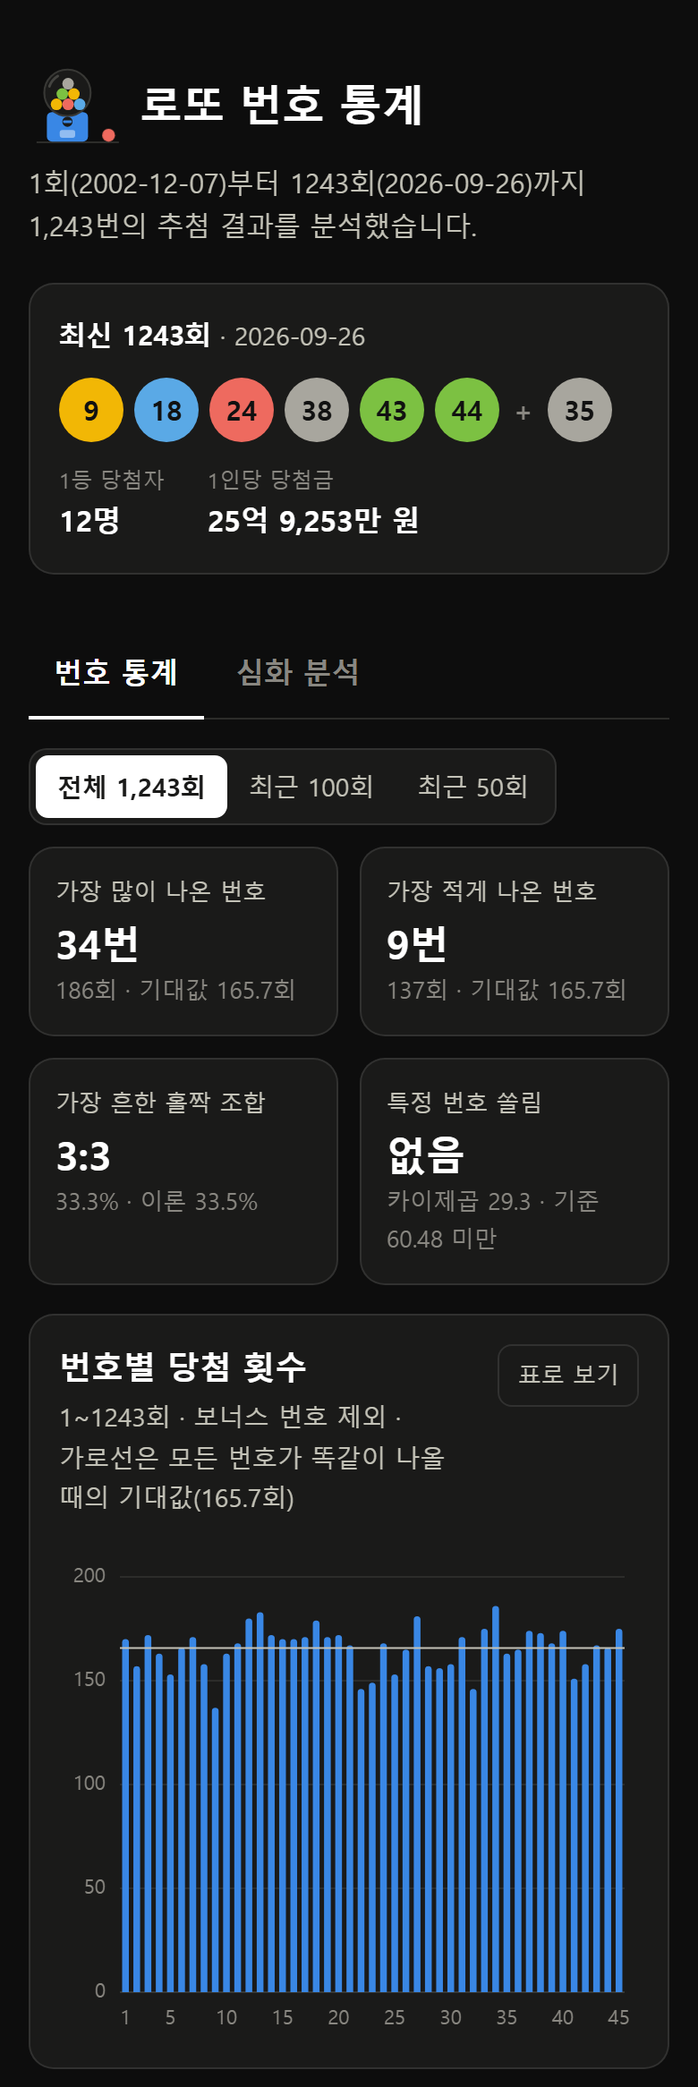
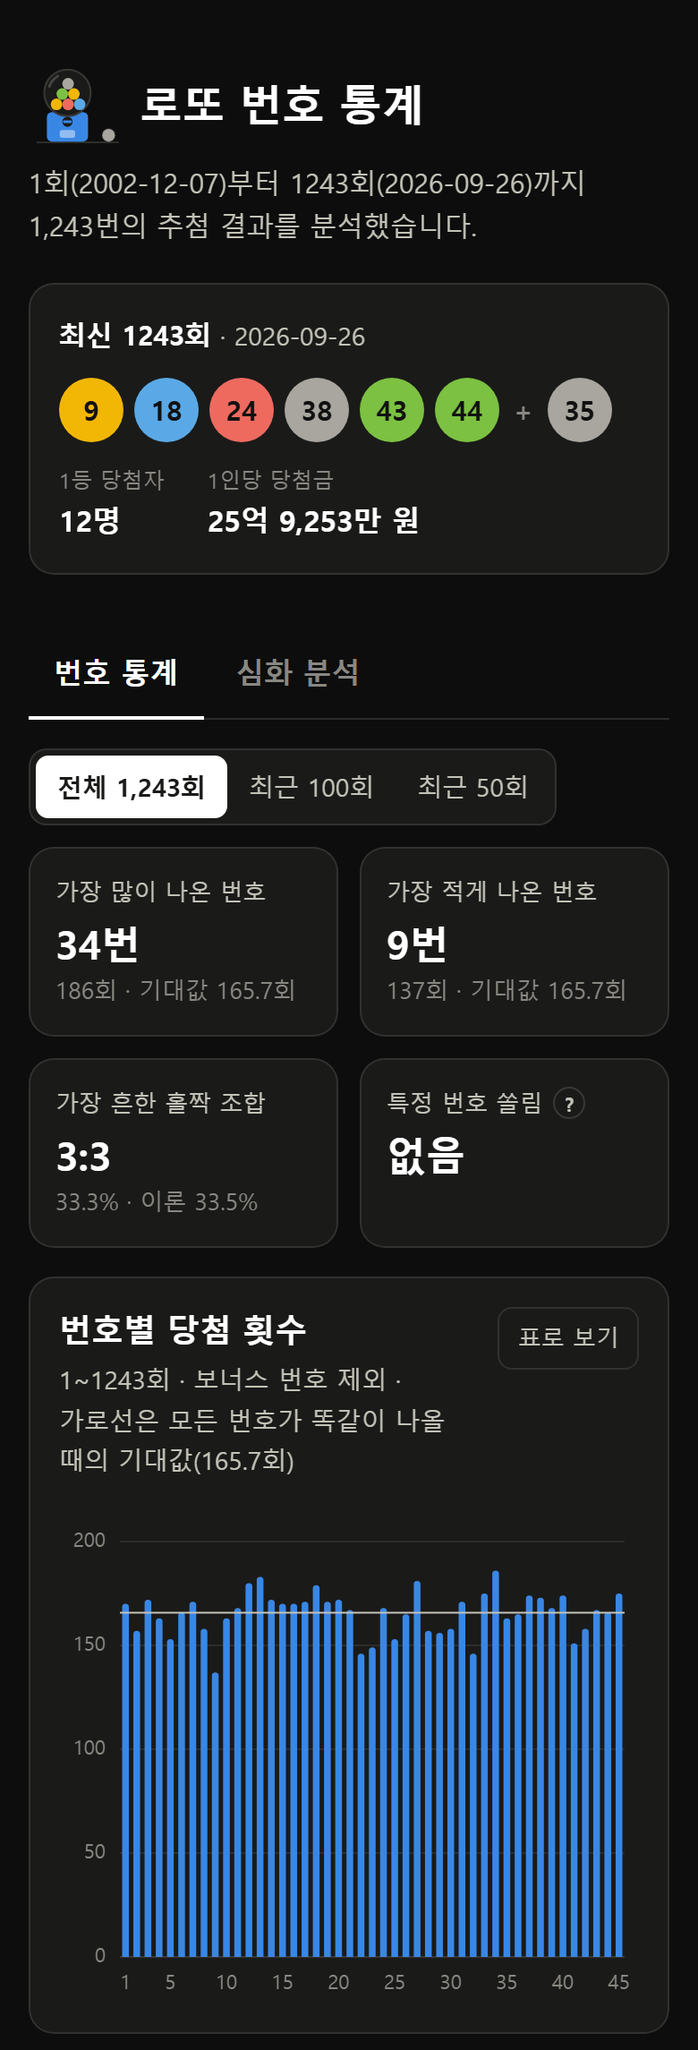
'특정 번호 쏠림' 타일에 ? 도움말 추가
- 타일에는 '없음/있음'만 남기고, 제목 옆 ? 버튼에 카이제곱 값과 기준, 뜻과 계산 방법을 풀어 쓴 설명을 띄움
- 마우스를 올리거나 키보드로 포커스하면 보이고, 누르면 고정. 모바일은 탭으로 열고 바깥을 탭하면 닫힘, Esc로도 닫힘
- 설명은 선택한 기간(전체·최근 100회·최근 50회)의 기대값과 카이제곱 값에 맞춰 바뀜
- README 스크린샷 갱신

diff --git a/docs/index.html b/docs/index.html
@@ -183,7 +183,26 @@
   /* 요약 타일 */
   .tiles { display: grid; grid-template-columns: repeat(4, minmax(0, 1fr)); gap: 12px; margin-bottom: 16px; }
   .tile { background: var(--surface); border: 1px solid var(--border); border-radius: 14px; padding: 16px; }
-  .tile-label { font-size: 13px; color: var(--ink-2); }
+  .tile-label { display: flex; align-items: center; gap: 6px; font-size: 13px; color: var(--ink-2); }
+
+  /* 도움말 ? 버튼과 설명 상자 */
+  .help {
+    flex: none; width: 18px; height: 18px; padding: 0; border-radius: 50%;
+    border: 1px solid var(--baseline); background: transparent; color: var(--ink-2);
+    font: inherit; font-size: 11px; font-weight: 700; line-height: 1; cursor: help;
+    display: inline-grid; place-items: center;
+  }
+  .help:hover, .help[aria-expanded="true"] { background: var(--ink); border-color: var(--ink); color: var(--surface); }
+  .help:focus-visible { outline: 2px solid var(--series-1); outline-offset: 2px; }
+  .help-pop {
+    position: fixed; z-index: 10; width: min(320px, calc(100vw - 32px));
+    background: var(--surface); border: 1px solid var(--border); border-radius: 10px; box-shadow: var(--shadow);
+    padding: 12px 14px; font-size: 13px; line-height: 1.6; color: var(--ink-2);
+  }
+  .help-pop strong { display: block; margin-bottom: 6px; font-size: 14px; color: var(--ink); }
+  .help-pop p { margin: 0 0 6px; }
+  .help-pop p:last-child { margin-bottom: 0; }
+  .help-pop .muted { font-size: 12px; color: var(--muted); }
   .tile-value { font-size: 26px; font-weight: 650; line-height: 1.3; margin-top: 4px; }
   .tile-sub { font-size: 13px; color: var(--muted); margin-top: 2px; }
 
@@ -491,6 +510,7 @@
 </main>
 
 <div class="tip" id="tip" role="tooltip" hidden></div>
+<div class="help-pop" id="help-pop" role="tooltip" hidden></div>
 
 <script id="data" type="application/json">{"first": {"no": 1, "date": "2002-12-07"}, "last": {"no": 1243, "date": "2026-09-26", "numbers": [9, 18, 24, 38, 43, 44], "bonus": 35, "firstWinners": 12, "firstPrize": 2592525282}, "chi2Critical": 60.48, "oddEvenTheory": [0.009161, 0.074362, 0.227217, 0.334846, 0.251134, 0.090887, 0.012394], "sumTheory": [0.003532, 0.023122, 0.081617, 0.175807, 0.248332, 0.236471, 0.15126, 0.062639, 0.015363, 0.001856], "rangeTheory": [0.222222, 0.222222, 0.222222, 0.222222, 0.111111], "gap": [9, 1, 13, 1, 30, 8, 2, 13, 0, 1, 3, 7, 2, 12, 8, 1, 17, 0, 3, 3, 7, 4, 2, 0, 10, 17, 19, 13, 7, 15, 1, 4, 4, 6, 9, 4, 6, 0, 8, 6, 1, 5, 0, 0, 19], "windows": {"all": {"draws": 1243, "freq": [170, 157, 172, 163, 153, 166, 171, 158, 137, 163, 168, 180, 183, 172, 170, 170, 171, 179, 171, 172, 167, 146, 149, 168, 153, 165, 181, 157, 156, 158, 171, 146, 175, 186, 163, 165, 174, 173, 168, 174, 151, 158, 167, 166, 175], "oddEven": [0.013677, 0.066774, 0.226066, 0.333065, 0.265487, 0.079646, 0.015286], "chi2": 29.3, "sumDist": [0.004023, 0.025744, 0.087691, 0.164119, 0.254224, 0.214803, 0.164119, 0.065165, 0.017699, 0.002414], "sumMean": 138.3, "rangeShare": [0.215876, 0.23277, 0.214535, 0.227273, 0.109547]}, "100": {"draws": 100, "freq": [12, 12, 17, 12, 9, 14, 15, 14, 16, 10, 13, 13, 18, 7, 18, 17, 11, 14, 14, 13, 10, 11, 13, 16, 13, 12, 20, 15, 13, 12, 17, 13, 11, 10, 13, 13, 16, 18, 15, 12, 11, 13, 10, 13, 11], "oddEven": [0.02, 0.07, 0.23, 0.21, 0.36, 0.1, 0.01], "chi2": 24.3, "sumDist": [0.01, 0.02, 0.1, 0.13, 0.24, 0.33, 0.11, 0.03, 0.03, 0.0], "sumMean": 137.4, "rangeShare": [0.218333, 0.23, 0.225, 0.23, 0.096667]}, "50": {"draws": 50, "freq": [8, 7, 7, 6, 4, 5, 6, 6, 6, 6, 5, 5, 10, 3, 11, 8, 5, 8, 6, 7, 4, 6, 5, 9, 6, 5, 10, 8, 6, 7, 11, 7, 7, 6, 6, 7, 6, 10, 6, 5, 7, 7, 6, 8, 6], "oddEven": [0.0, 0.1, 0.26, 0.22, 0.32, 0.08, 0.02], "chi2": 21.0, "sumDist": [0.0, 0.02, 0.06, 0.14, 0.24, 0.34, 0.12, 0.06, 0.02, 0.0], "sumMean": 141.0, "rangeShare": [0.203333, 0.226667, 0.22, 0.236667, 0.113333]}}, "yearly": [{"year": 2002, "draws": 4, "winners": 0.5, "prize": 2001003400, "sales": 4646715500}, {"year": 2003, "draws": 52, "winners": 4.02, "prize": 7296607950, "sales": 73136611576}, {"year": 2004, "draws": 52, "winners": 4.85, "prize": 4449644243, "sales": 63082585134}, {"year": 2005, "draws": 53, "winners": 6.43, "prize": 2337672556, "sales": 51924867188}, {"year": 2006, "draws": 52, "winners": 5.81, "prize": 2477798749, "sales": 47529296634}, {"year": 2007, "draws": 52, "winners": 5.81, "prize": 2398778454, "sales": 43550423250}, {"year": 2008, "draws": 52, "winners": 5.48, "prize": 2628893655, "sales": 43615730826}, {"year": 2009, "draws": 52, "winners": 5.67, "prize": 2411724960, "sales": 45181136769}, {"year": 2010, "draws": 52, "winners": 5.6, "prize": 2932931827, "sales": 46551576519}, {"year": 2011, "draws": 53, "winners": 6.91, "prize": 2300512047, "sales": 53056016584}, {"year": 2012, "draws": 52, "winners": 6.65, "prize": 2490390423, "sales": 54483828769}, {"year": 2013, "draws": 52, "winners": 7.75, "prize": 2660993899, "sales": 57343982115}, {"year": 2014, "draws": 52, "winners": 7.52, "prize": 2290456497, "sales": 58482017750}, {"year": 2015, "draws": 52, "winners": 7.56, "prize": 2325697848, "sales": 62419556769}, {"year": 2016, "draws": 53, "winners": 8.64, "prize": 2214066163, "sales": 67916671150}, {"year": 2017, "draws": 52, "winners": 9.19, "prize": 2354143504, "sales": 72976702076}, {"year": 2018, "draws": 52, "winners": 9.31, "prize": 2328038408, "sales": 76165627442}, {"year": 2019, "draws": 52, "winners": 9.75, "prize": 2396548868, "sales": 82849318865}, {"year": 2020, "draws": 52, "winners": 10.1, "prize": 2461556915, "sales": 90558172692}, {"year": 2021, "draws": 52, "winners": 10.85, "prize": 2455187227, "sales": 98361471576}, {"year": 2022, "draws": 53, "winners": 12.6, "prize": 2554471515, "sales": 104105883018}, {"year": 2023, "draws": 52, "winners": 12.42, "prize": 2368756091, "sales": 108626514942}, {"year": 2024, "draws": 52, "winners": 14.67, "prize": 2100664332, "sales": 114020230480}, {"year": 2025, "draws": 52, "winners": 15.62, "prize": 2061324936, "sales": 119233559461}, {"year": 2026, "draws": 39, "winners": 15.03, "prize": 2185946342, "sales": 121877756000}], "records": {"topPrize": {"no": 19, "date": "2003-04-12", "winners": 1, "prize": 40722959400, "sales": 105957818000}, "lowPrize": {"no": 546, "date": "2013-05-18", "winners": 30, "prize": 405939950, "sales": 56713166000}, "mostWinners": {"no": 1128, "date": "2024-07-13", "winners": 63, "prize": 419925560, "sales": 111364194000}, "topSales": {"no": 10, "date": "2003-02-08", "winners": 13, "prize": 6430437900, "sales": 260856392000}, "noWinner": {"count": 14, "last": {"no": 463, "date": "2011-10-15", "winners": 0, "prize": 0, "sales": 49205151000}}, "drought": {"number": 5, "length": 73, "from": 1053, "to": 1125}}, "pairs": [24, 27, 21, 18, 16, 14, 21, 21, 21, 18, 25, 22, 17, 18, 23, 22, 20, 16, 22, 19, 9, 20, 20, 13, 21, 22, 30, 22, 12, 13, 14, 14, 24, 23, 16, 19, 18, 17, 20, 21, 24, 18, 15, 20, 16, 20, 15, 20, 15, 22, 12, 13, 22, 18, 18, 15, 23, 23, 22, 14, 22, 21, 13, 18, 11, 17, 24, 16, 20, 22, 16, 16, 18, 16, 23, 22, 11, 13, 19, 14, 19, 14, 15, 18, 17, 18, 20, 22, 12, 17, 21, 20, 17, 22, 21, 25, 29, 21, 21, 18, 18, 16, 16, 29, 12, 25, 19, 29, 9, 14, 28, 13, 14, 18, 19, 23, 20, 20, 18, 19, 21, 20, 17, 16, 17, 23, 19, 18, 21, 18, 15, 13, 19, 18, 23, 19, 19, 17, 18, 18, 23, 22, 20, 18, 26, 11, 16, 19, 15, 19, 25, 22, 18, 18, 9, 19, 20, 26, 19, 14, 12, 22, 16, 15, 24, 19, 17, 18, 12, 21, 20, 16, 13, 16, 11, 26, 24, 24, 24, 13, 15, 18, 20, 13, 26, 19, 18, 14, 13, 18, 21, 24, 14, 17, 17, 16, 16, 12, 26, 15, 12, 17, 12, 20, 12, 14, 19, 20, 17, 20, 24, 12, 12, 18, 25, 22, 24, 22, 18, 22, 25, 24, 23, 16, 23, 22, 10, 18, 14, 16, 16, 28, 10, 19, 19, 20, 9, 19, 17, 17, 25, 31, 22, 23, 18, 14, 18, 15, 12, 15, 22, 15, 20, 24, 20, 12, 24, 22, 18, 27, 26, 24, 13, 23, 18, 27, 17, 21, 20, 16, 23, 15, 14, 10, 25, 18, 18, 24, 21, 25, 20, 23, 18, 20, 18, 18, 18, 11, 13, 14, 7, 23, 17, 18, 15, 24, 23, 23, 14, 23, 13, 15, 14, 18, 8, 27, 17, 20, 19, 23, 16, 22, 17, 18, 22, 16, 20, 27, 14, 15, 18, 20, 20, 24, 16, 15, 22, 14, 13, 14, 14, 17, 18, 14, 10, 16, 12, 14, 18, 16, 15, 18, 19, 16, 15, 12, 11, 21, 15, 18, 15, 17, 19, 16, 15, 15, 14, 15, 14, 13, 17, 16, 19, 22, 20, 27, 13, 22, 23, 20, 12, 24, 16, 20, 15, 11, 19, 18, 19, 13, 31, 18, 20, 18, 22, 20, 22, 23, 14, 26, 18, 16, 15, 22, 12, 19, 22, 21, 21, 20, 26, 20, 16, 16, 34, 15, 13, 19, 14, 24, 19, 21, 17, 15, 19, 20, 17, 10, 19, 20, 22, 17, 26, 9, 18, 13, 16, 27, 18, 21, 20, 28, 14, 15, 20, 23, 22, 19, 14, 17, 31, 16, 25, 17, 16, 24, 17, 18, 21, 25, 29, 15, 17, 16, 21, 23, 24, 22, 27, 23, 17, 22, 21, 20, 17, 18, 27, 19, 24, 20, 16, 15, 20, 20, 20, 16, 26, 23, 13, 22, 24, 29, 22, 16, 21, 25, 24, 23, 20, 18, 19, 22, 18, 24, 29, 18, 16, 23, 17, 18, 22, 22, 19, 14, 18, 24, 23, 16, 14, 23, 22, 20, 21, 18, 20, 22, 22, 21, 23, 24, 14, 17, 17, 19, 21, 16, 18, 12, 26, 19, 24, 22, 23, 23, 21, 19, 18, 18, 15, 16, 14, 12, 17, 29, 17, 18, 20, 13, 17, 19, 18, 19, 24, 18, 20, 18, 17, 24, 20, 17, 10, 23, 25, 23, 18, 18, 20, 20, 15, 24, 13, 19, 18, 16, 24, 19, 21, 18, 21, 25, 17, 22, 21, 17, 24, 21, 22, 19, 15, 17, 18, 16, 19, 24, 20, 18, 21, 22, 17, 19, 21, 21, 24, 18, 16, 23, 17, 13, 15, 19, 21, 25, 16, 21, 25, 14, 24, 20, 13, 23, 19, 16, 19, 23, 28, 25, 15, 26, 18, 14, 19, 26, 24, 17, 12, 23, 21, 20, 27, 18, 29, 16, 20, 20, 23, 19, 20, 21, 10, 16, 18, 18, 17, 25, 17, 16, 13, 16, 17, 18, 20, 23, 24, 18, 27, 14, 14, 21, 22, 18, 20, 18, 18, 15, 19, 19, 17, 26, 18, 26, 20, 18, 15, 16, 20, 20, 17, 18, 26, 17, 17, 12, 14, 23, 23, 22, 11, 17, 20, 17, 20, 19, 28, 22, 23, 21, 17, 19, 15, 18, 13, 18, 23, 19, 12, 18, 17, 16, 15, 19, 12, 13, 19, 17, 15, 22, 15, 21, 23, 21, 13, 17, 12, 17, 13, 17, 11, 18, 18, 15, 16, 17, 18, 14, 16, 11, 11, 21, 21, 17, 16, 18, 18, 19, 9, 17, 22, 21, 20, 13, 13, 29, 10, 17, 22, 15, 19, 21, 19, 21, 19, 19, 19, 18, 21, 16, 18, 10, 26, 22, 15, 18, 18, 21, 11, 18, 14, 22, 19, 17, 27, 22, 18, 15, 18, 12, 12, 18, 17, 17, 26, 19, 19, 18, 21, 8, 19, 20, 20, 23, 19, 20, 16, 22, 17, 20, 24, 18, 15, 19, 23, 18, 17, 13, 17, 16, 27, 24, 23, 26, 20, 26, 16, 21, 21, 19, 25, 13, 23, 12, 12, 11, 23, 11, 18, 16, 17, 17, 20, 16, 22, 21, 14, 19, 11, 19, 13, 25, 24, 17, 14, 16, 23, 18, 22, 11, 17, 18, 24, 18, 23, 14, 24, 28, 22, 16, 20, 23, 23, 15, 23, 15, 23, 17, 23, 24, 19, 27, 17, 17, 21, 25, 15, 25, 18, 14, 23, 26, 17, 23, 18, 12, 18, 16, 15, 14, 19, 14, 19, 12, 13, 21, 18, 22, 23, 24, 21, 16, 33, 19, 19, 14, 22, 21, 20, 18, 16, 19, 20, 20, 21, 30, 19, 27, 23, 19, 24, 18, 20, 23, 11, 14, 25, 19, 19, 20, 17, 25, 15, 17, 16, 13, 18, 21, 24, 20, 31, 19, 15, 21, 10, 23, 21, 23, 15, 16, 19, 19, 23, 16, 22, 12, 22, 20, 23, 22, 15, 21, 19, 17, 17, 18, 20, 22, 19, 15, 24, 18, 19, 14]}</script>
 <script>
@@ -829,22 +849,94 @@
     const k = w.oddEven.indexOf(Math.max(...w.oddEven));
     const random = w.chi2 < DATA.chi2Critical;
 
+    // [제목, 값, 보조 문구, 도움말] — 도움말이 있으면 제목 옆에 ? 버튼을 단다
     const tiles = [
       ['가장 많이 나온 번호', listOf(numbersWith(max)), `${fmt(max)}회 · 기대값 ${expected}회`],
       ['가장 적게 나온 번호', listOf(numbersWith(min)), `${fmt(min)}회 · 기대값 ${expected}회`],
       ['가장 흔한 홀짝 조합', `${k}:${6 - k}`, `${pct(w.oddEven[k])} · 이론 ${pct(DATA.oddEvenTheory[k])}`],
-      ['특정 번호 쏠림', random ? '없음' : '있음',
-        `카이제곱 ${w.chi2.toFixed(1)} · 기준 ${DATA.chi2Critical} ${random ? '미만' : '이상'}`],
+      ['특정 번호 쏠림', random ? '없음' : '있음', null, chiSquareHelp(w)],
     ];
     const box = $('tiles');
     box.textContent = '';
-    for (const [label, value, sub] of tiles) {
+    for (const [label, value, sub, help] of tiles) {
       const tile = htmlEl('div', 'tile', null, box);
-      htmlEl('div', 'tile-label', label, tile);
+      const head = htmlEl('div', 'tile-label', label, tile);
+      if (help) bindHelp(htmlEl('button', 'help', '?', head), label, help);
       htmlEl('div', 'tile-value', value, tile);
-      htmlEl('div', 'tile-sub', sub, tile);
+      if (sub) htmlEl('div', 'tile-sub', sub, tile);
     }
   }
+
+  // '특정 번호 쏠림'이 무슨 뜻인지 풀어 쓴 설명 (기간마다 기대값과 카이제곱 값이 다르다)
+  function chiSquareHelp(w) {
+    const chi = w.chi2.toFixed(1);
+    const crit = DATA.chi2Critical;
+    const random = w.chi2 < crit;
+    return [
+      ['strong', `카이제곱 ${chi} · 기준 ${crit} ${random ? '미만' : '이상'}`],
+      ['p', `45개 번호가 모두 같은 확률로 뽑힌다면, 이 기간에는 번호마다 약 ${expectedOf(w).toFixed(1)}회씩 나와야 합니다.`],
+      ['p', '카이제곱은 번호마다 실제 횟수가 이 기대값에서 얼마나 벗어났는지를 숫자 하나로 합친 값입니다. 클수록 번호별 차이가 큽니다.'],
+      ['p', `완전히 무작위인 추첨에서도 이 정도 차이는 우연히 생깁니다. 무작위라면 카이제곱이 ${crit}을 넘을 확률이 5%뿐이라, 이 값을 기준으로 봅니다.`],
+      ['p', random
+        ? `지금 값 ${chi}은 기준보다 작아서, 특정 번호가 더 잘 나온다고 볼 근거가 없습니다.`
+        : `지금 값 ${chi}은 기준보다 커서 우연이라 보기엔 차이가 큽니다. 다만 이것만으로 특정 번호가 더 잘 나온다고 단정할 수는 없습니다.`],
+      ['p.muted', `계산: 번호마다 (실제 횟수 − 기대값)² ÷ 기대값을 구해 45개를 모두 더합니다. 기준 ${crit}은 자유도 44, 유의수준 5%의 값입니다.`],
+    ];
+  }
+
+  // ------------------------------------------------------------ 도움말 (? 버튼)
+  // 마우스를 올리거나 키보드로 포커스하면 보이고, 누르면 고정된다 (모바일은 탭으로 열고 닫음)
+  const helpPop = $('help-pop');
+  let helpOwner = null;
+  let helpPinned = false;
+
+  function showHelp(btn, parts) {
+    helpOwner = btn;
+    helpPop.textContent = '';
+    for (const [tag, text] of parts) {
+      const [name, cls] = tag.split('.');
+      htmlEl(name, cls || '', text, helpPop);
+    }
+    helpPop.hidden = false;
+    btn.setAttribute('aria-expanded', 'true');
+    const r = btn.getBoundingClientRect();
+    const w = helpPop.offsetWidth;
+    const h = helpPop.offsetHeight;
+    let top = r.bottom + 8;
+    if (top + h > window.innerHeight - 8) top = Math.max(8, r.top - h - 8);
+    helpPop.style.left = Math.min(Math.max(16, r.left + r.width / 2 - w / 2), window.innerWidth - w - 16) + 'px';
+    helpPop.style.top = top + 'px';
+  }
+
+  function hideHelp() {
+    if (!helpOwner) return;
+    helpOwner.setAttribute('aria-expanded', 'false');
+    helpOwner = null;
+    helpPinned = false;
+    helpPop.hidden = true;
+  }
+
+  function bindHelp(btn, label, parts) {
+    btn.type = 'button';
+    btn.setAttribute('aria-label', `${label} 설명`);
+    btn.setAttribute('aria-expanded', 'false');
+    btn.setAttribute('aria-describedby', 'help-pop');
+    btn.addEventListener('pointerenter', (e) => { if (e.pointerType !== 'touch') showHelp(btn, parts); });
+    btn.addEventListener('pointerleave', (e) => { if (e.pointerType !== 'touch' && !helpPinned) hideHelp(); });
+    btn.addEventListener('focus', () => showHelp(btn, parts));
+    btn.addEventListener('blur', hideHelp);
+    btn.addEventListener('click', () => {
+      helpPinned = !(helpOwner === btn && helpPinned);
+      if (helpPinned) showHelp(btn, parts);
+      else hideHelp();
+    });
+  }
+
+  document.addEventListener('pointerdown', (e) => {
+    if (helpOwner && !(e.target instanceof Element && e.target.closest('.help'))) hideHelp();
+  });
+  document.addEventListener('keydown', (e) => { if (e.key === 'Escape') hideHelp(); });
+  window.addEventListener('scroll', hideHelp, { passive: true });
 
   function renderTables() {
     const w = win();
@@ -1200,6 +1292,7 @@
   // ------------------------------------------------------------ 기간 선택
   function renderScoped() {
     hideTip();
+    hideHelp();
     const w = win();
     const [from, to] = rangeOf(w);
     $('freq-sub').textContent = `${from}~${to}회 · 보너스 번호 제외 · 가로선은 모든 번호가 똑같이 나올 때의 기대값(${expectedOf(w).toFixed(1)}회)`;
@@ -1247,6 +1340,7 @@
   function showTab(key, { focus = false } = {}) {
     currentTab = key;
     hideTip();
+    hideHelp();
     for (const tab of tabs) {
       const on = tab.dataset.tab === key;
       tab.setAttribute('aria-selected', String(on));

diff --git a/site_template.html b/site_template.html
@@ -183,7 +183,26 @@
   /* 요약 타일 */
   .tiles { display: grid; grid-template-columns: repeat(4, minmax(0, 1fr)); gap: 12px; margin-bottom: 16px; }
   .tile { background: var(--surface); border: 1px solid var(--border); border-radius: 14px; padding: 16px; }
-  .tile-label { font-size: 13px; color: var(--ink-2); }
+  .tile-label { display: flex; align-items: center; gap: 6px; font-size: 13px; color: var(--ink-2); }
+
+  /* 도움말 ? 버튼과 설명 상자 */
+  .help {
+    flex: none; width: 18px; height: 18px; padding: 0; border-radius: 50%;
+    border: 1px solid var(--baseline); background: transparent; color: var(--ink-2);
+    font: inherit; font-size: 11px; font-weight: 700; line-height: 1; cursor: help;
+    display: inline-grid; place-items: center;
+  }
+  .help:hover, .help[aria-expanded="true"] { background: var(--ink); border-color: var(--ink); color: var(--surface); }
+  .help:focus-visible { outline: 2px solid var(--series-1); outline-offset: 2px; }
+  .help-pop {
+    position: fixed; z-index: 10; width: min(320px, calc(100vw - 32px));
+    background: var(--surface); border: 1px solid var(--border); border-radius: 10px; box-shadow: var(--shadow);
+    padding: 12px 14px; font-size: 13px; line-height: 1.6; color: var(--ink-2);
+  }
+  .help-pop strong { display: block; margin-bottom: 6px; font-size: 14px; color: var(--ink); }
+  .help-pop p { margin: 0 0 6px; }
+  .help-pop p:last-child { margin-bottom: 0; }
+  .help-pop .muted { font-size: 12px; color: var(--muted); }
   .tile-value { font-size: 26px; font-weight: 650; line-height: 1.3; margin-top: 4px; }
   .tile-sub { font-size: 13px; color: var(--muted); margin-top: 2px; }
 
@@ -491,6 +510,7 @@
 </main>
 
 <div class="tip" id="tip" role="tooltip" hidden></div>
+<div class="help-pop" id="help-pop" role="tooltip" hidden></div>
 
 <script id="data" type="application/json">__DATA__</script>
 <script>
@@ -829,22 +849,94 @@
     const k = w.oddEven.indexOf(Math.max(...w.oddEven));
     const random = w.chi2 < DATA.chi2Critical;
 
+    // [제목, 값, 보조 문구, 도움말] — 도움말이 있으면 제목 옆에 ? 버튼을 단다
     const tiles = [
       ['가장 많이 나온 번호', listOf(numbersWith(max)), `${fmt(max)}회 · 기대값 ${expected}회`],
       ['가장 적게 나온 번호', listOf(numbersWith(min)), `${fmt(min)}회 · 기대값 ${expected}회`],
       ['가장 흔한 홀짝 조합', `${k}:${6 - k}`, `${pct(w.oddEven[k])} · 이론 ${pct(DATA.oddEvenTheory[k])}`],
-      ['특정 번호 쏠림', random ? '없음' : '있음',
-        `카이제곱 ${w.chi2.toFixed(1)} · 기준 ${DATA.chi2Critical} ${random ? '미만' : '이상'}`],
+      ['특정 번호 쏠림', random ? '없음' : '있음', null, chiSquareHelp(w)],
     ];
     const box = $('tiles');
     box.textContent = '';
-    for (const [label, value, sub] of tiles) {
+    for (const [label, value, sub, help] of tiles) {
       const tile = htmlEl('div', 'tile', null, box);
-      htmlEl('div', 'tile-label', label, tile);
+      const head = htmlEl('div', 'tile-label', label, tile);
+      if (help) bindHelp(htmlEl('button', 'help', '?', head), label, help);
       htmlEl('div', 'tile-value', value, tile);
-      htmlEl('div', 'tile-sub', sub, tile);
+      if (sub) htmlEl('div', 'tile-sub', sub, tile);
     }
   }
+
+  // '특정 번호 쏠림'이 무슨 뜻인지 풀어 쓴 설명 (기간마다 기대값과 카이제곱 값이 다르다)
+  function chiSquareHelp(w) {
+    const chi = w.chi2.toFixed(1);
+    const crit = DATA.chi2Critical;
+    const random = w.chi2 < crit;
+    return [
+      ['strong', `카이제곱 ${chi} · 기준 ${crit} ${random ? '미만' : '이상'}`],
+      ['p', `45개 번호가 모두 같은 확률로 뽑힌다면, 이 기간에는 번호마다 약 ${expectedOf(w).toFixed(1)}회씩 나와야 합니다.`],
+      ['p', '카이제곱은 번호마다 실제 횟수가 이 기대값에서 얼마나 벗어났는지를 숫자 하나로 합친 값입니다. 클수록 번호별 차이가 큽니다.'],
+      ['p', `완전히 무작위인 추첨에서도 이 정도 차이는 우연히 생깁니다. 무작위라면 카이제곱이 ${crit}을 넘을 확률이 5%뿐이라, 이 값을 기준으로 봅니다.`],
+      ['p', random
+        ? `지금 값 ${chi}은 기준보다 작아서, 특정 번호가 더 잘 나온다고 볼 근거가 없습니다.`
+        : `지금 값 ${chi}은 기준보다 커서 우연이라 보기엔 차이가 큽니다. 다만 이것만으로 특정 번호가 더 잘 나온다고 단정할 수는 없습니다.`],
+      ['p.muted', `계산: 번호마다 (실제 횟수 − 기대값)² ÷ 기대값을 구해 45개를 모두 더합니다. 기준 ${crit}은 자유도 44, 유의수준 5%의 값입니다.`],
+    ];
+  }
+
+  // ------------------------------------------------------------ 도움말 (? 버튼)
+  // 마우스를 올리거나 키보드로 포커스하면 보이고, 누르면 고정된다 (모바일은 탭으로 열고 닫음)
+  const helpPop = $('help-pop');
+  let helpOwner = null;
+  let helpPinned = false;
+
+  function showHelp(btn, parts) {
+    helpOwner = btn;
+    helpPop.textContent = '';
+    for (const [tag, text] of parts) {
+      const [name, cls] = tag.split('.');
+      htmlEl(name, cls || '', text, helpPop);
+    }
+    helpPop.hidden = false;
+    btn.setAttribute('aria-expanded', 'true');
+    const r = btn.getBoundingClientRect();
+    const w = helpPop.offsetWidth;
+    const h = helpPop.offsetHeight;
+    let top = r.bottom + 8;
+    if (top + h > window.innerHeight - 8) top = Math.max(8, r.top - h - 8);
+    helpPop.style.left = Math.min(Math.max(16, r.left + r.width / 2 - w / 2), window.innerWidth - w - 16) + 'px';
+    helpPop.style.top = top + 'px';
+  }
+
+  function hideHelp() {
+    if (!helpOwner) return;
+    helpOwner.setAttribute('aria-expanded', 'false');
+    helpOwner = null;
+    helpPinned = false;
+    helpPop.hidden = true;
+  }
+
+  function bindHelp(btn, label, parts) {
+    btn.type = 'button';
+    btn.setAttribute('aria-label', `${label} 설명`);
+    btn.setAttribute('aria-expanded', 'false');
+    btn.setAttribute('aria-describedby', 'help-pop');
+    btn.addEventListener('pointerenter', (e) => { if (e.pointerType !== 'touch') showHelp(btn, parts); });
+    btn.addEventListener('pointerleave', (e) => { if (e.pointerType !== 'touch' && !helpPinned) hideHelp(); });
+    btn.addEventListener('focus', () => showHelp(btn, parts));
+    btn.addEventListener('blur', hideHelp);
+    btn.addEventListener('click', () => {
+      helpPinned = !(helpOwner === btn && helpPinned);
+      if (helpPinned) showHelp(btn, parts);
+      else hideHelp();
+    });
+  }
+
+  document.addEventListener('pointerdown', (e) => {
+    if (helpOwner && !(e.target instanceof Element && e.target.closest('.help'))) hideHelp();
+  });
+  document.addEventListener('keydown', (e) => { if (e.key === 'Escape') hideHelp(); });
+  window.addEventListener('scroll', hideHelp, { passive: true });
 
   function renderTables() {
     const w = win();
@@ -1200,6 +1292,7 @@
   // ------------------------------------------------------------ 기간 선택
   function renderScoped() {
     hideTip();
+    hideHelp();
     const w = win();
     const [from, to] = rangeOf(w);
     $('freq-sub').textContent = `${from}~${to}회 · 보너스 번호 제외 · 가로선은 모든 번호가 똑같이 나올 때의 기대값(${expectedOf(w).toFixed(1)}회)`;
@@ -1247,6 +1340,7 @@
   function showTab(key, { focus = false } = {}) {
     currentTab = key;
     hideTip();
+    hideHelp();
     for (const tab of tabs) {
       const on = tab.dataset.tab === key;
       tab.setAttribute('aria-selected', String(on));
